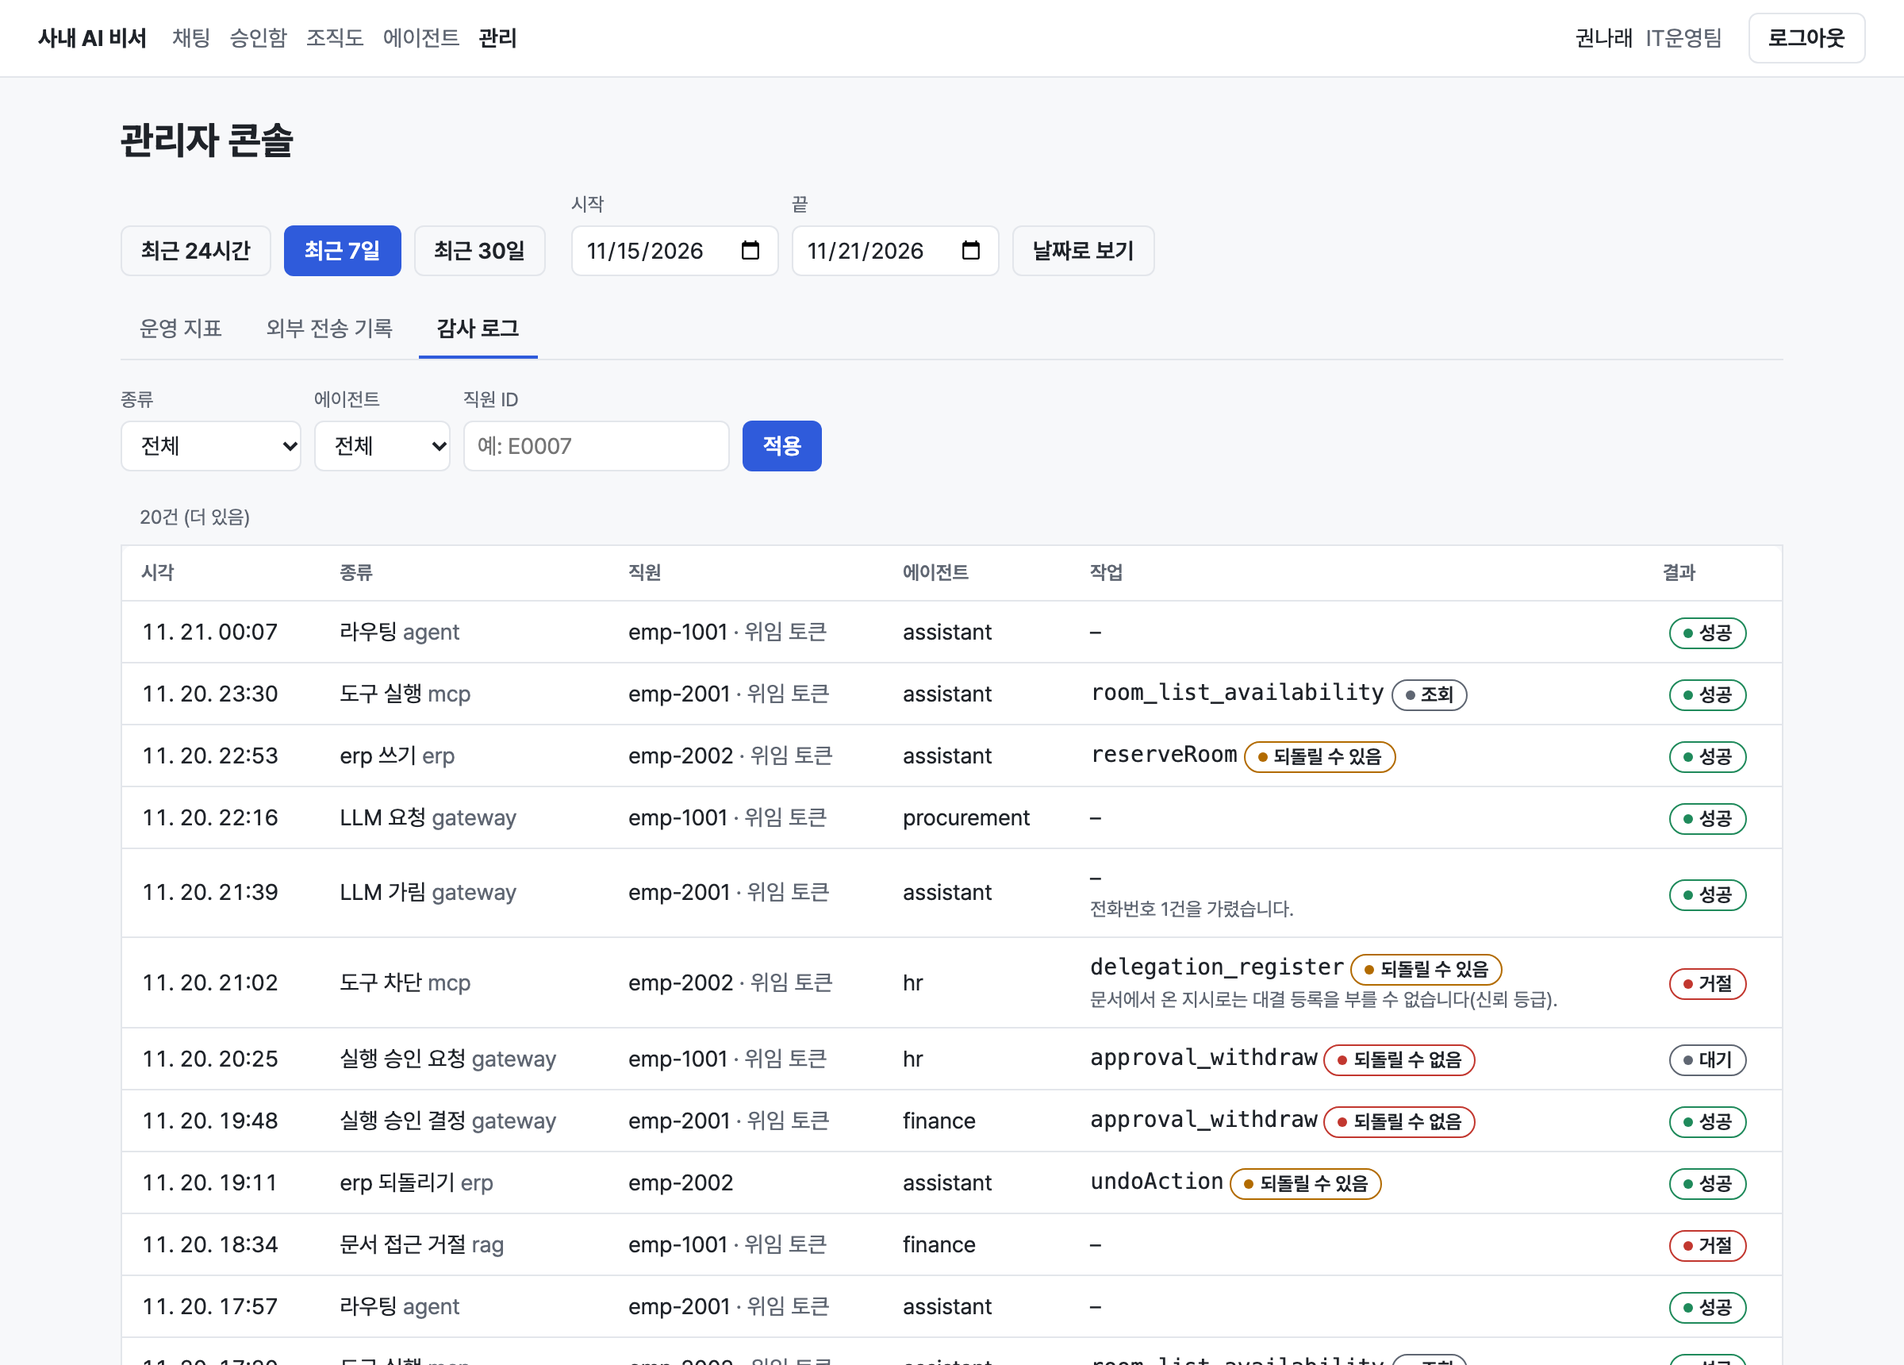
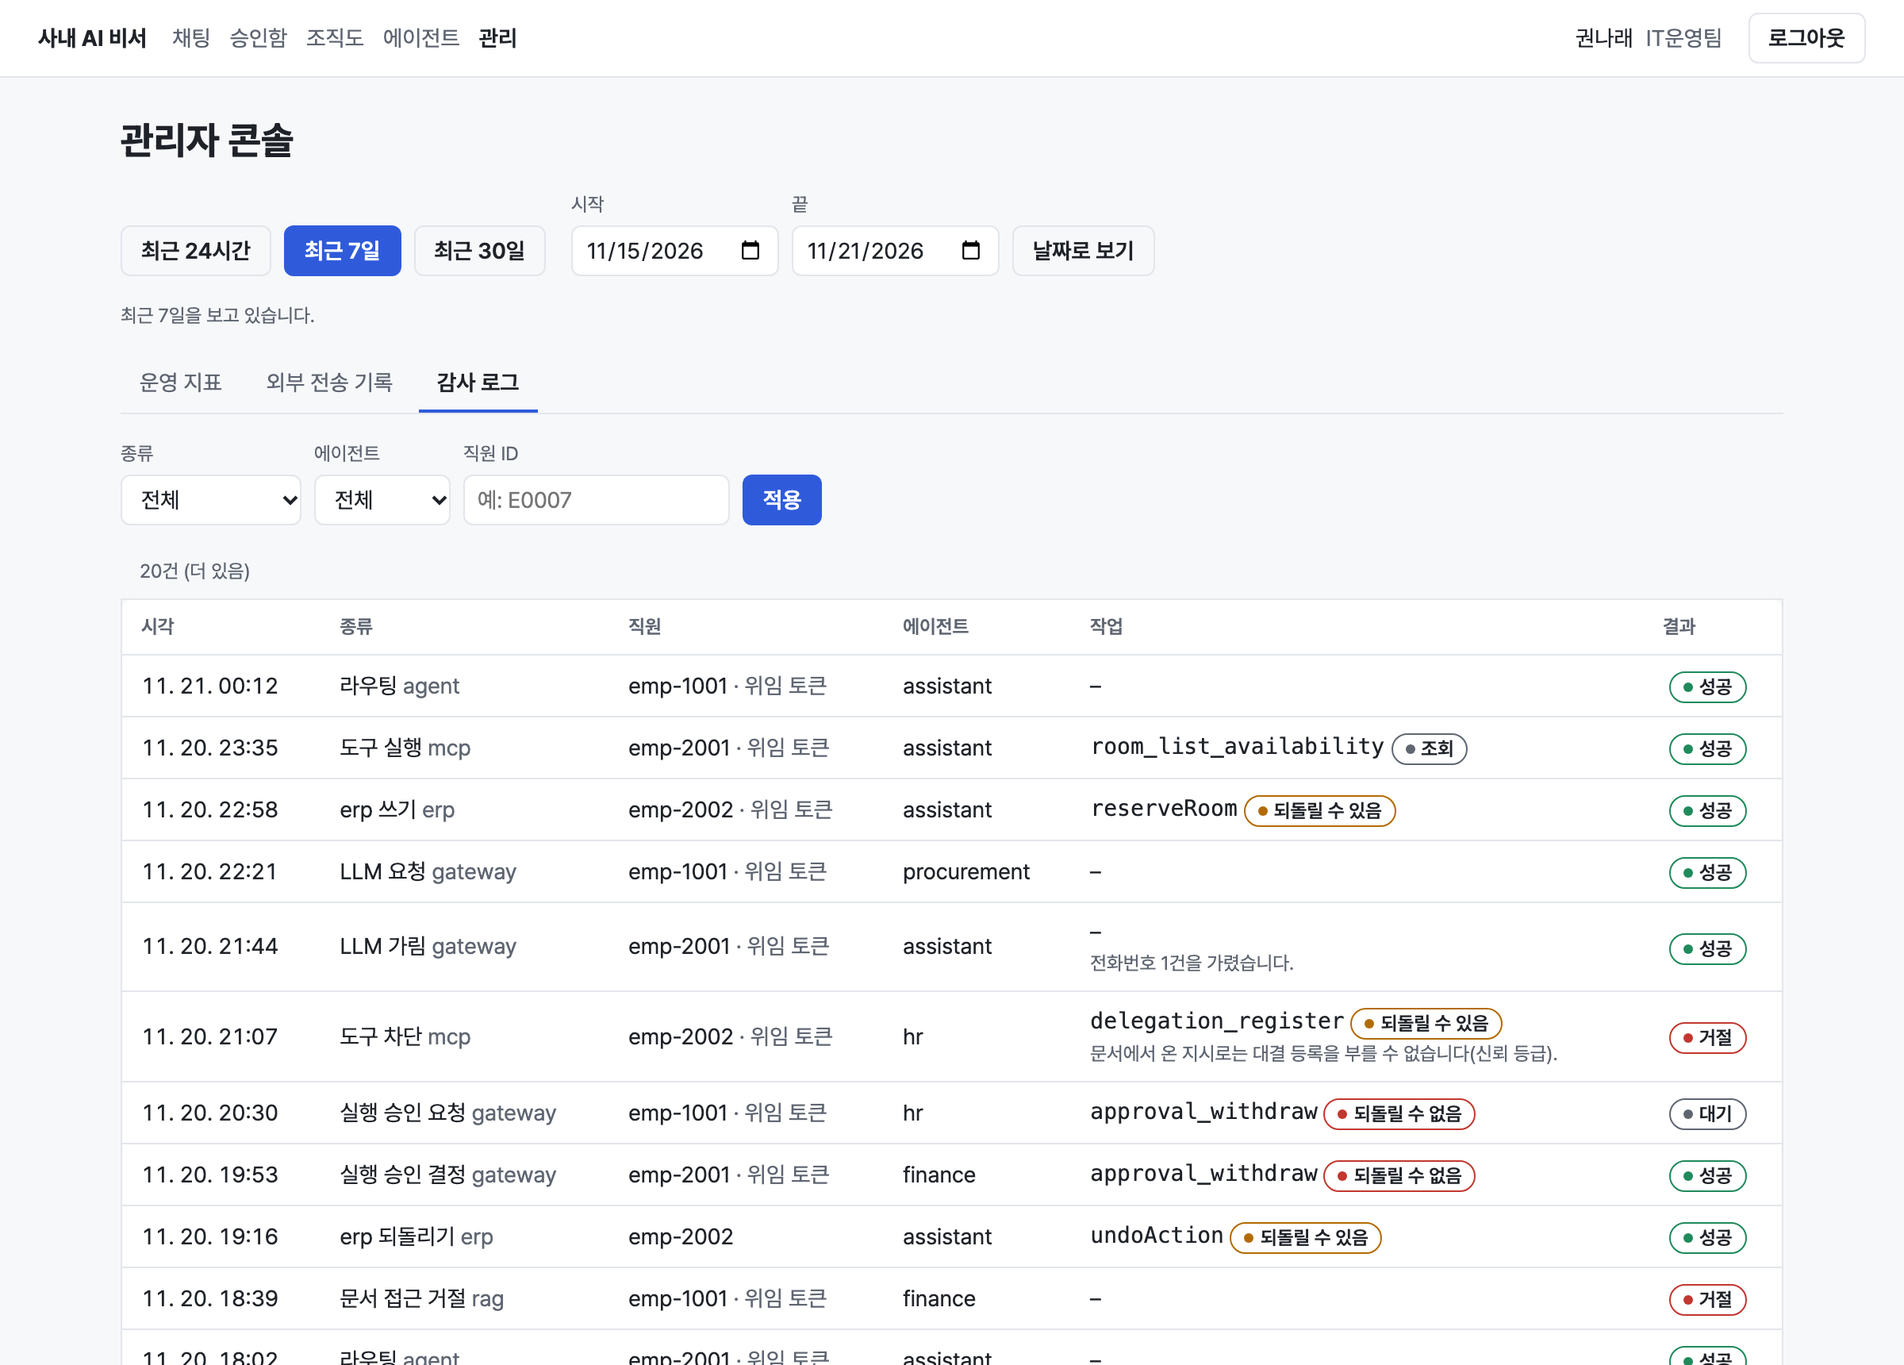
fix(web): 리뷰 지적대로 관리자 콘솔의 더 보기 묶음, 비율 반올림, 좁은 화면 표를 고칩니다

diff --git a/web/src/admin/AdminPage.test.tsx b/web/src/admin/AdminPage.test.tsx
@@ -1,6 +1,6 @@
 import { fireEvent, render, screen, within } from '@testing-library/react'
 import userEvent from '@testing-library/user-event'
-import { http } from 'msw'
+import { http, HttpResponse } from 'msw'
 import { MemoryRouter } from 'react-router-dom'
 import { describe, expect, it, vi } from 'vitest'
 import { App } from '../App'
@@ -95,6 +95,62 @@ describe('관리자 콘솔', () => {
       for (const r of rows) expect(r).toHaveTextContent('도구 차단')
     })
     expect(screen.getAllByText(/신뢰 등급/).length).toBeGreaterThan(0)
+  })
+
+  it('같은 조건으로 돌아오면 예전에 더 보기로 붙인 쪽을 다시 붙이지 않습니다', async () => {
+    const user = renderAdmin()
+    await user.click(await screen.findByRole('tab', { name: '감사 로그' }))
+    const rows = async () => within(await screen.findByRole('table')).getAllByRole('row').length
+    expect(await rows()).toBe(21)
+    await user.click(screen.getByRole('button', { name: '더 보기' }))
+    await vi.waitFor(async () => expect(await rows()).toBeGreaterThan(21))
+
+    await user.selectOptions(screen.getByLabelText('종류'), 'tool.blocked')
+    await user.click(screen.getByRole('button', { name: '적용' }))
+    await vi.waitFor(async () => expect(await rows()).toBeLessThan(21))
+    await user.click(screen.getByRole('button', { name: '필터 지우기' }))
+    await vi.waitFor(async () => expect(await rows()).toBe(21))
+  })
+
+  it('더 보기가 실패하면 problem title을 보여 주고 목록은 둡니다', async () => {
+    server.use(
+      http.get('*/api/audit-events', ({ request }) =>
+        new URL(request.url).searchParams.get('cursor')
+          ? HttpResponse.json({ type: 'urn:problem:x', title: '감사 저장소가 응답하지 않습니다.', status: 503 }, { status: 503, headers: { 'Content-Type': 'application/problem+json' } })
+          : undefined,
+      ),
+    )
+    const user = renderAdmin()
+    await user.click(await screen.findByRole('tab', { name: '감사 로그' }))
+    await screen.findByRole('table')
+    await user.click(screen.getByRole('button', { name: '더 보기' }))
+    expect(await screen.findByRole('alert')).toHaveTextContent('감사 저장소가 응답하지 않습니다.')
+    expect(within(screen.getByRole('table')).getAllByRole('row')).toHaveLength(21)
+  })
+
+  it('비용 상한이 없으면 그렇다고 알립니다', async () => {
+    server.use(
+      http.get('*/api/ops/metrics', () => {
+        const zero = { calls: 0, blocked: { total: 0, byCode: {} }, llmRequests: { local: 0, external: 0 }, externalCostUsd: 0 }
+        return HttpResponse.json({ since: '2026-11-20T00:00:00Z', until: '2026-11-21T00:00:00Z', totals: zero, agents: [], routing: { total: 0, byMethod: {} }, budgets: null })
+      }),
+    )
+    renderAdmin()
+    expect(await screen.findByText('비용 상한을 두지 않았습니다(팩에 budgets.yaml 없음).')).toBeInTheDocument()
+    expect(screen.getByText('이 기간에 막은 요청이 없습니다.')).toBeInTheDocument()
+  })
+
+  it('탭은 화살표·Home·End로 옮깁니다', async () => {
+    const user = renderAdmin()
+    const metrics = await screen.findByRole('tab', { name: '운영 지표' })
+    metrics.focus()
+    await user.keyboard('{ArrowRight}')
+    expect(screen.getByRole('tab', { name: '외부 전송 기록' })).toHaveFocus()
+    expect(screen.getByRole('tab', { name: '외부 전송 기록' })).toHaveAttribute('aria-selected', 'true')
+    await user.keyboard('{End}')
+    expect(screen.getByRole('tab', { name: '감사 로그' })).toHaveAttribute('tabindex', '0')
+    await user.keyboard('{Home}{ArrowLeft}')
+    expect(screen.getByRole('tab', { name: '감사 로그' })).toHaveFocus()
   })
 
   it('auditor가 아니면 메뉴가 없고, 열어도 problem title을 보여 줍니다', async () => {

diff --git a/web/src/admin/load.ts b/web/src/admin/load.ts
@@ -31,37 +31,53 @@ const usd = new Intl.NumberFormat('en-US', { style: 'currency', currency: 'USD',
 export const formatUsd = (n: number) => usd.format(n)
 export const percent = (part: number, whole: number) => (whole > 0 ? Math.round((part / whole) * 100) : 0)
 
+/** 비율 글자. 0보다 크면 0%로, 100보다 작으면 100%로 반올림하지 않습니다(외부 전송 여부를 잘못 읽지 않게). */
+export function percentText(part: number, whole: number): string {
+  if (whole <= 0) return '0%'
+  const r = (part / whole) * 100
+  if (r > 0 && r < 1) return '<1%'
+  if (r > 99 && r < 100) return '>99%'
+  return `${Math.round(r)}%`
+}
+
 type Page<T> = { items: T[]; nextCursor?: string | null }
 
 /**
- * 커서로 넘기는 목록. key(조건)가 바뀌면 첫 쪽부터 다시 불러오고, '더 보기'로 붙인 쪽은 버립니다.
- * fetchPage(cursor)는 cursor가 없으면 첫 쪽입니다.
+ * 커서로 넘기는 목록. key(조건)가 바뀌면 첫 쪽부터 다시 불러옵니다.
+ * '더 보기'로 붙인 쪽은 그 첫 쪽 응답에 묶어 둡니다. 같은 조건으로 돌아와 첫 쪽을 새로 받으면 예전에 붙인 쪽은 버립니다.
  */
 export function usePaged<T>(key: string, fetchPage: (cursor?: string) => Promise<{ data?: Page<T>; error?: unknown }>, fallback: string) {
   const first = useLoad<Page<T>>(key, () => fetchPage(), fallback)
-  const [more, setMore] = useState<{ key: string; items: T[]; nextCursor: string | null } | null>(null)
-  const [moreError, setMoreError] = useState<{ key: string; message: string } | null>(null)
-  const [loadingMore, setLoadingMore] = useState(false)
-  const extra = more?.key === key ? more : null
+  const base = first.status === 'ok' ? first.data : null
+  const [more, setMore] = useState<{ base: Page<T>; items: T[]; nextCursor: string | null } | null>(null)
+  const [moreError, setMoreError] = useState<{ base: Page<T>; message: string } | null>(null)
+  const [loading, setLoading] = useState<Page<T> | null>(null)
+  const extra = base && more?.base === base ? more : null
 
-  const items = first.status === 'ok' ? [...first.data.items, ...(extra?.items ?? [])] : []
-  const next = extra ? extra.nextCursor : first.status === 'ok' ? (first.data.nextCursor ?? null) : null
+  const items = base ? [...base.items, ...(extra?.items ?? [])] : []
+  const next = extra ? extra.nextCursor : (base?.nextCursor ?? null)
 
   async function loadMore() {
-    if (!next) return
-    const k = key
-    setLoadingMore(true)
+    if (!next || !base) return
+    setLoading(base)
     setMoreError(null)
     try {
       const { data, error } = await fetchPage(next)
-      if (data) setMore((cur) => ({ key: k, items: [...(cur?.key === k ? cur.items : []), ...data.items], nextCursor: data.nextCursor ?? null }))
-      else setMoreError({ key: k, message: problemTitle(error, '다음 목록을 불러오지 못했습니다.') })
+      if (data) setMore((cur) => ({ base, items: [...(cur?.base === base ? cur.items : []), ...data.items], nextCursor: data.nextCursor ?? null }))
+      else setMoreError({ base, message: problemTitle(error, '다음 목록을 불러오지 못했습니다.') })
     } catch {
-      setMoreError({ key: k, message: NETWORK })
+      setMoreError({ base, message: NETWORK })
     } finally {
-      setLoadingMore(false)
+      setLoading((cur) => (cur === base ? null : cur))
     }
   }
 
-  return { first, items, next, loadMore, loadingMore, moreError: moreError?.key === key ? moreError.message : null }
+  return {
+    first,
+    items,
+    next,
+    loadMore,
+    loadingMore: base !== null && loading === base,
+    moreError: base && moreError?.base === base ? moreError.message : null,
+  }
 }

diff --git a/web/src/admin/MetricsPanel.tsx b/web/src/admin/MetricsPanel.tsx
@@ -1,7 +1,7 @@
 import { api, type Schemas } from '../api/client'
 import { Badge } from '../components/Badge'
 import type { Range } from './AdminPage'
-import { formatUsd, percent, useLoad } from './load'
+import { formatUsd, percent, percentText, useLoad } from './load'
 
 type Metrics = Schemas['OpsMetrics']
 
@@ -59,7 +59,7 @@ export function MetricsPanel({ range }: { range: Range }) {
         <div className="tile">
           <dt>외부 모델 요청</dt>
           <dd>
-            {percent(t.llmRequests.external, llm)}% <span className="muted tile__sub">{t.llmRequests.external.toLocaleString('ko-KR')} / {llm.toLocaleString('ko-KR')}건</span>
+            {percentText(t.llmRequests.external, llm)} <span className="muted tile__sub">{t.llmRequests.external.toLocaleString('ko-KR')} / {llm.toLocaleString('ko-KR')}건</span>
           </dd>
         </div>
         <div className="tile">
@@ -73,7 +73,8 @@ export function MetricsPanel({ range }: { range: Range }) {
 
       <section aria-labelledby="m-agents">
         <h2 id="m-agents">에이전트별</h2>
-        <table className="table">
+        <div className="table-scroll" role="region" aria-label="에이전트별 표" tabIndex={0}>
+        <table className="table metrics__agents">
           <thead>
             <tr>
               <th scope="col">에이전트</th>
@@ -86,7 +87,6 @@ export function MetricsPanel({ range }: { range: Range }) {
           <tbody>
             {m.agents.map((a) => {
               const n = a.llmRequests.local + a.llmRequests.external
-              const ext = percent(a.llmRequests.external, n)
               return (
                 <tr key={a.agentId}>
                   <th scope="row">{a.agentName}</th>
@@ -100,7 +100,7 @@ export function MetricsPanel({ range }: { range: Range }) {
                   <td>
                     <span className="bar-cell">
                       <Bar value={a.llmRequests.external} max={n} label={`외부 ${a.llmRequests.external} / 전체 ${n}`} />
-                      {n === 0 ? <span className="muted">요청 없음</span> : `${ext}% (외부 ${a.llmRequests.external} · 로컬 ${a.llmRequests.local})`}
+                      {n === 0 ? <span className="muted">요청 없음</span> : `${percentText(a.llmRequests.external, n)} (외부 ${a.llmRequests.external} · 로컬 ${a.llmRequests.local})`}
                     </span>
                   </td>
                   <td className="num">{formatUsd(a.externalCostUsd)}</td>
@@ -109,6 +109,7 @@ export function MetricsPanel({ range }: { range: Range }) {
             })}
           </tbody>
         </table>
+        </div>
       </section>
 
       <div className="metrics__pair">
@@ -147,7 +148,7 @@ export function MetricsPanel({ range }: { range: Range }) {
                     <td>
                       <span className="bar-cell">
                         <Bar value={n} max={m.routing.total} label={`${n}건`} />
-                        {percent(n, m.routing.total)}% ({n}건)
+                        {percentText(n, m.routing.total)} ({n}건)
                       </span>
                     </td>
                   </tr>

diff --git a/web/src/admin/AdminPage.tsx b/web/src/admin/AdminPage.tsx
@@ -70,18 +70,25 @@ export function AdminPage() {
         <form className="admin__custom" onSubmit={applyCustom}>
           <label>
             <span className="muted">시작</span>
-            <input type="date" value={from} max={today} onChange={(e) => setFrom(e.target.value)} />
+            <input type="date" value={from} max={today} aria-invalid={!!rangeError} aria-describedby={rangeError ? 'admin-range-error' : undefined} onChange={(e) => setFrom(e.target.value)} />
           </label>
           <label>
             <span className="muted">끝</span>
-            <input type="date" value={to} max={today} onChange={(e) => setTo(e.target.value)} />
+            <input type="date" value={to} max={today} aria-invalid={!!rangeError} aria-describedby={rangeError ? 'admin-range-error' : undefined} onChange={(e) => setTo(e.target.value)} />
           </label>
-          <Button type="submit" variant={period.kind === 'custom' ? 'primary' : 'secondary'} aria-pressed={period.kind === 'custom'}>
+          <Button type="submit" variant={period.kind === 'custom' ? 'primary' : 'secondary'}>
             날짜로 보기
           </Button>
         </form>
       </div>
-      {rangeError && <p role="alert">{rangeError}</p>}
+      {rangeError && (
+        <p role="alert" id="admin-range-error">
+          {rangeError}
+        </p>
+      )}
+      <p className="muted admin__period" aria-live="polite">
+        {period.kind === 'custom' ? `${period.from} ~ ${period.to}` : `최근 ${PRESETS.find((p) => p.preset === period.preset)?.label}`}을 보고 있습니다.
+      </p>
 
       <div role="tablist" aria-label="관리자 콘솔" className="tabs">
         {TABS.map((t, i) => (
@@ -103,7 +110,7 @@ export function AdminPage() {
           </button>
         ))}
       </div>
-      <div role="tabpanel" id="admin-panel" aria-labelledby={`admin-tab-${tab}`} className="admin__panel">
+      <div role="tabpanel" id="admin-panel" aria-labelledby={`admin-tab-${tab}`} className="admin__panel" tabIndex={0}>
         {tab === 'metrics' && <MetricsPanel range={range} />}
         {tab === 'egress' && <EgressPanel range={range} />}
         {tab === 'audit' && <AuditPanel range={range} />}

diff --git a/web/src/admin/AuditPanel.tsx b/web/src/admin/AuditPanel.tsx
@@ -34,6 +34,8 @@ const RESULT: Record<Audit['result'], { label: string; tone: BadgeTone }> = {
   pending: { label: '대기', tone: 'neutral' },
 }
 
+const UNKNOWN = { label: '', tone: 'neutral' as BadgeTone }
+
 type Filters = { kind: string; agentId: string; actorId: string }
 const EMPTY: Filters = { kind: '', agentId: '', actorId: '' }
 
@@ -110,10 +112,12 @@ export function AuditPanel({ range }: { range: Range }) {
         )}
       </form>
 
+      {agents.status === 'error' && <p className="muted">{agents.message}</p>}
       {first.status === 'loading' && <p className="muted">불러오는 중입니다.</p>}
       {first.status === 'error' && <p role="alert">{first.message}</p>}
       {first.status === 'ok' && items.length === 0 && <p className="muted">조건에 맞는 감사 이벤트가 없습니다.</p>}
       {items.length > 0 && (
+        <div className="table-scroll" role="region" aria-label="감사 이벤트 표" tabIndex={0}>
         <table className="table audit__table">
           <caption className="muted">{items.length}건{next ? ' (더 있음)' : ''}</caption>
           <thead>
@@ -144,12 +148,13 @@ export function AuditPanel({ range }: { range: Range }) {
                   {e.detail && <div className="muted audit__detail">{e.detail}</div>}
                 </td>
                 <td>
-                  <Badge tone={RESULT[e.result].tone}>{RESULT[e.result].label}</Badge>
+                  <Badge tone={(RESULT[e.result] ?? UNKNOWN).tone}>{(RESULT[e.result] ?? { label: e.result }).label}</Badge>
                 </td>
               </tr>
             ))}
           </tbody>
         </table>
+        </div>
       )}
       {moreError && <p role="alert">{moreError}</p>}
       {next && (

diff --git a/web/src/admin/admin-utils.test.ts b/web/src/admin/admin-utils.test.ts
@@ -1,4 +1,5 @@
 import { describe, expect, it } from 'vitest'
+import { percentText } from './load'
 import { toRange } from './period'
 import { segments, type Redaction } from './redact'
 
@@ -32,5 +33,29 @@ describe('segments', () => {
     const out = segments(text, [r(4, 10, 1), r(4, 99), r(4, 10), r(6, 8)], 0)
     expect(out.map((s) => s.text).join('')).toBe(text)
     expect(out.filter((s) => s.redaction)).toHaveLength(1)
+  })
+})
+
+describe('segments 경계', () => {
+  const r = (start: number, end: number): Redaction => ({ entity: 'EMAIL_ADDRESS', placeholder: '[이메일]', messageIndex: 0, start, end })
+  it('빈 범위는 무시하고, 끝에 붙은 가림과 정렬 안 된 입력을 처리합니다', () => {
+    const text = 'a[이메일]b[이메일]'
+    const out = segments(text, [r(7, 12), r(1, 6), r(3, 3)], 0)
+    expect(out.map((s) => [s.text, !!s.redaction])).toEqual([
+      ['a', false],
+      ['[이메일]', true],
+      ['b', false],
+      ['[이메일]', true],
+    ])
+  })
+})
+
+describe('percentText', () => {
+  it('0보다 크면 0%, 100보다 작으면 100%로 보이지 않습니다', () => {
+    expect(percentText(1, 300)).toBe('<1%')
+    expect(percentText(299, 300)).toBe('>99%')
+    expect(percentText(0, 300)).toBe('0%')
+    expect(percentText(300, 300)).toBe('100%')
+    expect(percentText(1, 0)).toBe('0%')
   })
 })

diff --git a/web/src/admin/admin.css b/web/src/admin/admin.css
@@ -97,7 +97,7 @@
 
 .metrics__pair {
   display: grid;
-  grid-template-columns: repeat(auto-fit, minmax(320px, 1fr));
+  grid-template-columns: repeat(auto-fit, minmax(min(320px, 100%), 1fr));
   gap: var(--sp-16);
 }
 
@@ -173,6 +173,24 @@
 .egress__messages p {
   margin: var(--sp-4) 0 0;
   white-space: pre-wrap;
+  overflow-wrap: anywhere;
+}
+
+.egress__item summary code {
+  overflow-wrap: anywhere;
+}
+
+.egress__item summary::before {
+  content: '▸';
+  color: var(--text-muted);
+}
+
+.egress__item details[open] > summary::before {
+  content: '▾';
+}
+
+.egress__item summary::-webkit-details-marker {
+  display: none;
 }
 
 .egress__role {
@@ -195,8 +213,23 @@
   justify-items: start;
 }
 
+.table-scroll {
+  width: 100%;
+  overflow-x: auto;
+}
+
 .audit__table {
   width: 100%;
+  min-width: 720px;
+}
+
+.metrics__agents {
+  min-width: 640px;
+}
+
+.admin__period {
+  margin: 0;
+  font-size: var(--fs-12);
 }
 
 .audit__table caption {
@@ -223,9 +256,8 @@
     margin-left: 0;
   }
 
-  .audit__table,
-  .metrics table {
-    display: block;
-    overflow-x: auto;
+  .metrics .table th,
+  .metrics .table td {
+    padding: var(--sp-8);
   }
 }

diff --git a/web/src/admin/EgressPanel.tsx b/web/src/admin/EgressPanel.tsx
@@ -35,6 +35,7 @@ export function EgressPanel({ range }: { range: Range }) {
             ))}
         </select>
       </label>
+      {agents.status === 'error' && <p className="muted">{agents.message}</p>}
       {first.status === 'loading' && <p className="muted">불러오는 중입니다.</p>}
       {first.status === 'error' && <p role="alert">{first.message}</p>}
       {first.status === 'ok' && items.length === 0 && <p className="muted">이 기간에 외부로 보낸 요청이 없습니다.</p>}
